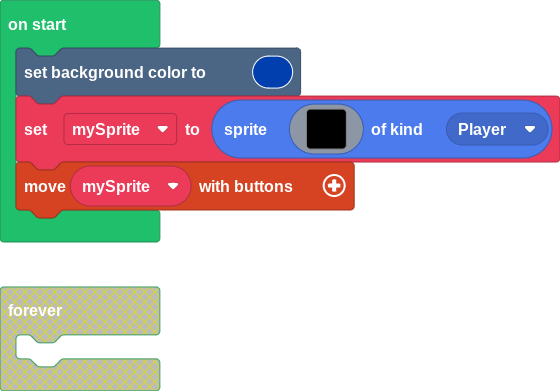
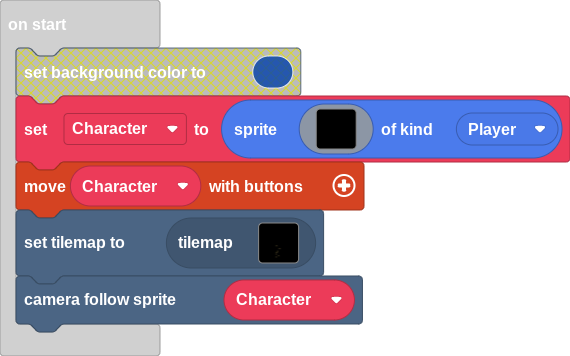
Update pxt.json, main.blocks, main.ts, tilemap.g.jres, tilemap.g.ts

diff --git a/tilemap.g.ts b/tilemap.g.ts
@@ -1,0 +1,150 @@
+// Auto-generated code. Do not edit.
+namespace myTiles {
+    //% fixedInstance jres blockIdentity=images._tile
+    export const transparency16 = image.ofBuffer(hex``);
+    //% fixedInstance jres blockIdentity=images._tile
+    export const tile1 = image.ofBuffer(hex``);
+    //% fixedInstance jres blockIdentity=images._tile
+    export const tile2 = image.ofBuffer(hex``);
+
+    helpers._registerFactory("tilemap", function(name: string) {
+        switch(helpers.stringTrim(name)) {
+            case "level1":
+            case "level1":return tiles.createTilemap(hex`1000640000000000000000000000000000000000000000000000000000000000000000000000000000000000000000000000000000000000000000000000000000000000000000000000000000000000000000000000000000000000000000000000000000000000000000000000000000000000000000000000000000000000000000000000000000000000000000000000000000000000000000000000000000000000000000000000000000000000000000000000000000000000000000000000000000000000000000000000000000000000000000000000000000000000000000000000000000000000000000000000000000000000000000000000000000000000000000000000000000000000000000000000000000000000000000000000000000000000000000000000000000000000000000000000000000000000000000000000000000000000000000000000000000000000000000000000000000000000000000000000000000000000000000000000000000000000000000000000000000000000000000000000000000000000000000000000000000000000000000000000000000000000000000000000000000000000000000000000000000000000000000000000000000000000000000000000000000000000000000000000000000000000000000000000000000000000000000000000000000000000000000000000000000000000000000000000000000000000000000000000000000000000000000000000000000000000000000000000000000000000000000000000000000000000000000000000000000000000000000000000000000000000000000000000000000000000000000000000000000000000000000000000000000000000000000000000000000000000000000000000000000000000000000000000000000000000000000000000000000000000000000000000000000000000000000000000000000000000000000000000000000000000000000000000000000000000000000000000000000000000000000000000000000000000000000000000000000000000000000000000000000000000000000000000000000000000000000000000000000000000000000000000000000000000000000000000000000000000000000000000000000000000000000000000000000000000000000000000000000000000000000000000000000000000000000000000000000000000000000000000000000000000000000000000000000000000000000000000000000000000010101010101000000000000000000000000000000000000000000000000000000000000000000000000000000000000000000000000000000000000000000000000000000000000000000000000000000000000000000000000000000000000000000000000000000000000000000000000000000000000000000000000000000000000000000000000000000000000000000000000000000010101010101010000000000000000000000000000000000000000000000000000000000000000000000000000000000000000000000000000000000000000000000000000000000000000000000000000000000000000000000000000000000000000000000000000000000000100000000000000000000000000000001000000000000000000000000000000010000000000000000000000000000000100000000000000000000000000000000000000000000000000010101010101010000000000000000000000000000000000000000000000000000000000000000000000000000000000000000000000000000000000000000000000000000000000000000000000000001010101000000000000000000000000000000000000000000000000000000000000000000000000000000000000000000000000000000000000000000000000000000000000000000000000000000000000000000000001010101010000000000000000000000000000000000000000000000000000000000000000000000000000000000000000000000000000000001010101000000000000000000000000000000000000000000000000000000000000000000000000000000000000000000000000000000000000000000000000000000000000000000000000000000000000000000000000000000000000000000000000000000000000000000000000`, img`
+................
+................
+................
+................
+................
+................
+................
+................
+................
+................
+................
+................
+................
+................
+................
+................
+................
+................
+................
+................
+................
+................
+................
+................
+................
+................
+................
+................
+................
+................
+................
+................
+................
+................
+................
+................
+................
+................
+................
+................
+................
+................
+................
+................
+................
+................
+................
+................
+................
+................
+................
+................
+................
+................
+................
+................
+................
+................
+................
+................
+................
+................
+................
+................
+................
+................
+................
+................
+................
+................
+................
+................
+................
+................
+................
+................
+................
+................
+................
+................
+................
+................
+................
+................
+................
+................
+................
+................
+................
+................
+................
+................
+................
+................
+................
+................
+................
+................
+................
+................
+`, [myTiles.transparency16,myTiles.tile1,myTiles.tile2], TileScale.Sixteen);
+            case "level2":
+            case "level2":return tiles.createTilemap(hex`1000100000000000000000000000000000000000000000000000000000000000000000000000000000000000000000000000000000000000000000000000000000000000000000000000000000000000000000000000000000000000000000000000000000000000000000000000000000000000000000000000000000000000000000000000000000000000000000000000000000000000000000000000000000000000000000000000000000000000000000000000000000000000000000000000000000000000000000000000000000000000000000000000000000000000000000000000000000000000000000000000000000000000000000000000000000000000`, img`
+. . . . . . . . . . . . . . . . 
+. . . . . . . . . . . . . . . . 
+. . . . . . . . . . . . . . . . 
+. . . . . . . . . . . . . . . . 
+. . . . . . . . . . . . . . . . 
+. . . . . . . . . . . . . . . . 
+. . . . . . . . . . . . . . . . 
+. . . . . . . . . . . . . . . . 
+. . . . . . . . . . . . . . . . 
+. . . . . . . . . . . . . . . . 
+. . . . . . . . . . . . . . . . 
+. . . . . . . . . . . . . . . . 
+. . . . . . . . . . . . . . . . 
+. . . . . . . . . . . . . . . . 
+. . . . . . . . . . . . . . . . 
+. . . . . . . . . . . . . . . . 
+`, [myTiles.transparency16], TileScale.Sixteen);
+        }
+        return null;
+    })
+
+    helpers._registerFactory("tile", function(name: string) {
+        switch(helpers.stringTrim(name)) {
+            case "transparency16":return transparency16;
+            case "myTile":
+            case "tile1":return tile1;
+            case "myTile0":
+            case "tile2":return tile2;
+        }
+        return null;
+    })
+
+}
+// Auto-generated code. Do not edit.

diff --git a/main.ts b/main.ts
@@ -1,5 +1,7 @@
-scene.setBackgroundColor(8)
-let mySprite = sprites.create(img`
+let Character: Sprite = null
+tiles.setCurrentTilemap(tilemap`level1`)
+scene.cameraFollowSprite(Character)
+Character = sprites.create(img`
     ........................................
     ........................................
     ........................................
@@ -41,4 +43,4 @@ let mySprite = sprites.create(img`
     ........................................
     ........................................
     `, SpriteKind.Player)
-controller.moveSprite(mySprite)
+controller.moveSprite(Character)
